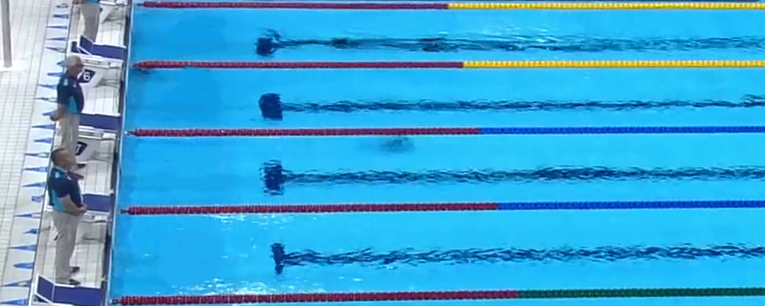
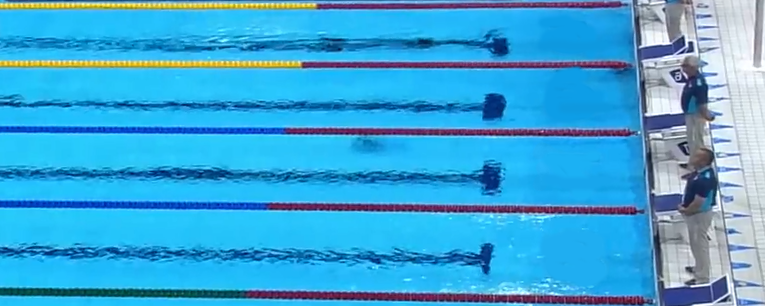
swimminging

diff --git a/SwimScene.cpp b/SwimScene.cpp
@@ -15,7 +15,7 @@ SwimScene::SwimScene( Game* game) : Scene(game)
     elapsedTime = 0;
 
     if( getGameClass()->getGamemode() == SINGLE )
-        numOfPlayers = 4;   // development mode
+        numOfPlayers = 1;   // development mode
     else
         numOfPlayers = 4;
 
@@ -45,12 +45,8 @@ SwimScene::SwimScene( Game* game) : Scene(game)
         player[0] = Character();
         break;
     }
-        player[1] = Gist();   // development mode
-
-        player[2] = Unist();
-        player[3] = Gist();
     if( getGameClass()->getGamemode() == OLYMPIC ) {
-
+        player[1] = Kaist();
         player[2] = Unist();
         player[3] = Gist();
     }
@@ -101,8 +97,7 @@ SwimScene::~SwimScene() {
 
 Scene* SwimScene::update()
 {
-    draw( 0, 0, "White.png" );
-    draw( 10, 200, "Pool.png");
+    draw( 30, 200, "Pool.png");
     drawCenter( 630, 550, "SwimTimer.png" );
 
     elapsedTime = timer.elapsed();
@@ -122,17 +117,17 @@ Scene* SwimScene::update()
     for(int i=0; i<numOfPlayers; i++) {
         switch(swimmerShapeCount[i]) {
         case 0:
-            drawCenter( 175 + position[i], 235 + 70*i, "SpinSlot1.png");
+            drawCenter( 650 - position[i], 235 + 70*i, "default_swim1.png");
             break;
         case 1:
-            drawCenter( 175 + position[i], 235 + 70*i, "SpinSlot2.png");
+            drawCenter( 650 - position[i], 235 + 70*i, "default_swim2.png");
             break;
         case 2:
-            drawCenter( 175 + position[i], 235 + 70*i, "SpinSlot3.png");
+            drawCenter( 650 - position[i], 235 + 70*i, "default_swim3.png");
             break;
         case 3:
         default:
-            drawCenter( 175 + position[i], 235 + 70*i, "SpinSlot4.png");
+            drawCenter( 650 - position[i], 235 + 70*i, "default_swim4.png");
             break;
         }
     }
